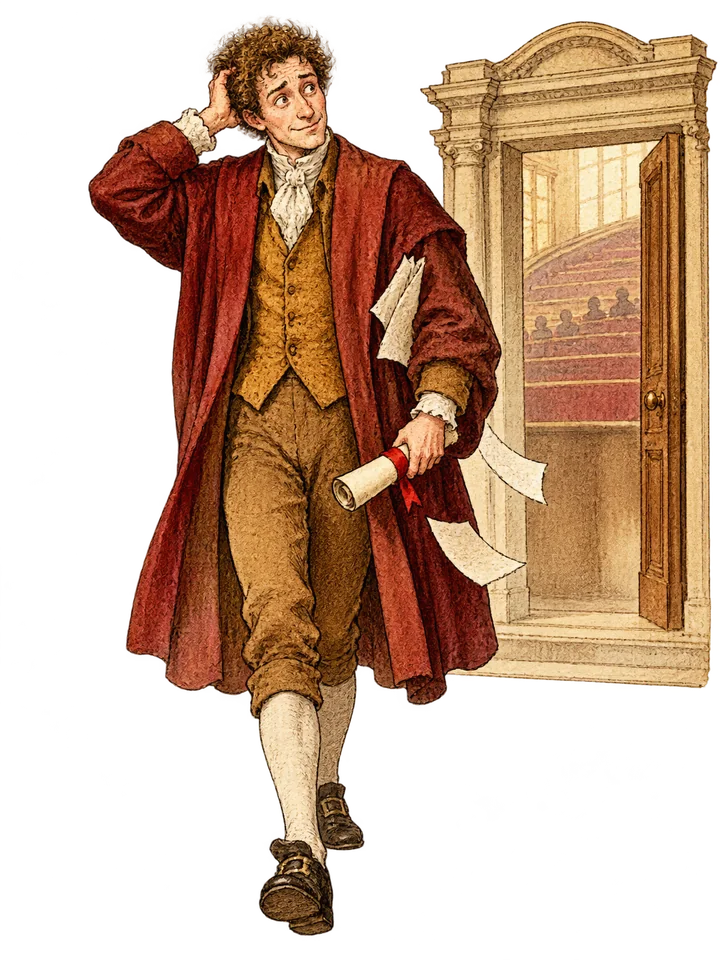
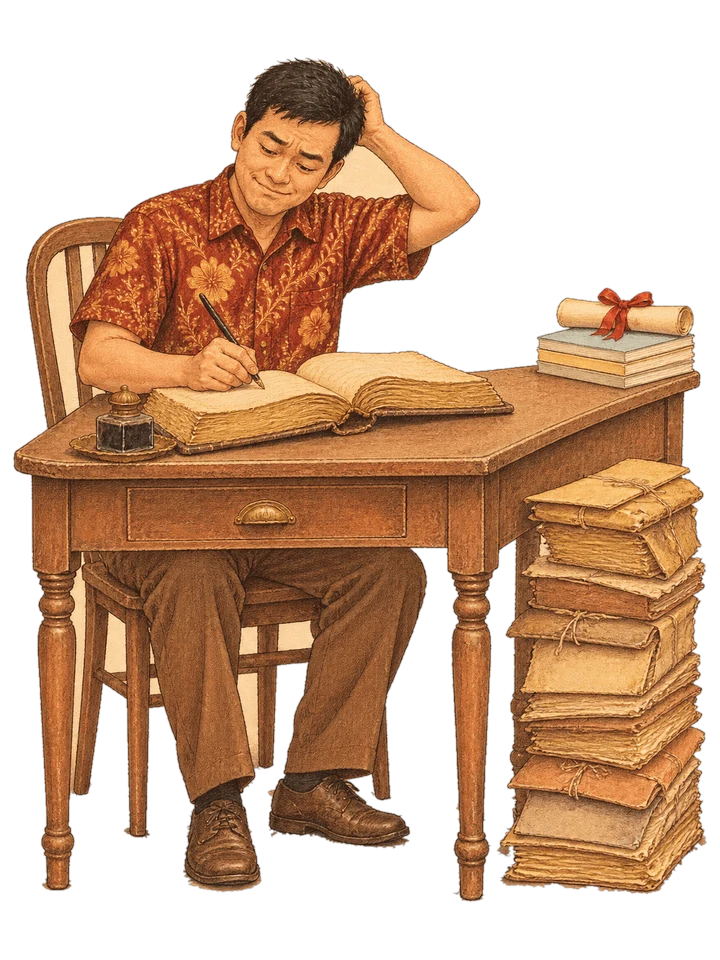
Watercolour game blocks, redrawn course plate, report as PDF, trail on every form
Game blocks are painted washes with serif labels. Booklet page four is
redrawn: back from the course, still writing in the old ledger. The
assessment report opens print-ready in Aqueenix format for Save as PDF.
Every form now carries the pages and sections viewed.

Claude-Session: https://claude.ai/code/session_01RuHVLx4WGbJiag7KhvmNeN

diff --git a/index.html b/index.html
@@ -578,6 +578,7 @@ h2{font-size:clamp(40px,5.6vw,72px);margin:22px 0 24px}
 .game-card[hidden]{display:none}
 .gc-kicker{font-size:11px;letter-spacing:.26em;text-transform:uppercase;font-weight:700;color:#8B1E2D}
 .game-card h3{font-size:clamp(30px,4vw,40px);margin:8px 0 10px;color:#211F1D}
+.game .game-card h3,.t-dark .game-card h3{color:#3A0E0C}.game .game-card.win h3{color:#8B1E2D}
 .game-card p{font-size:15px;color:#6b625b}
 .game-card.win h3{color:#8B1E2D}
 .gc-btns{display:flex;gap:10px;justify-content:center;flex-wrap:wrap;margin-top:18px}
@@ -2657,7 +2658,7 @@ a.wf-tile:focus-visible{outline:2px solid #D9AE50;outline-offset:3px}
       <li><span class="ws-n">3</span><h3>Train</h3><p>We train the people who run the process, on that process, in HRD Corp Claimable sessions. It is set up once, centrally, and taught to the team, so one person leaving does not take the capability with them.</p></li>
     </ol>
     <div class="bk-head reveal"><p class="bk-script">What we keep seeing</p><p class="bk-sub">Five things we find in almost every business we open up, or simply sit down and talk to.</p><span class="bk-flourish" aria-hidden="true"></span></div>
-    <div class="bk-stage" id="bkStage"><div class="book" id="book"><article class="spread" data-i="0" aria-labelledby="bk0"><div class="pg pg-art"><div class="pl"><img src="media/book/connector.webp" alt="Watercolour plate: a hand setting the final keystone into a stone arch" loading="lazy" decoding="async"></div></div><div class="pg pg-txt"><p class="pg-k">The missing piece</p><h3 id="bk0">The connector</h3><p>Your team already has the skills. Designers who can brief an image generator. Marketers who can cut a video. Admin staff who can run a spreadsheet.</p><p>What is missing is the connector: the one who sees the whole picture, finds what is actually broken, and makes the tools, the people and the process hold together.</p><p>There are many trainers. There are few who stay until it is live.</p><span class="folio" aria-hidden="true">i</span></div></article><article class="spread flip" data-i="1" aria-labelledby="bk1"><div class="pg pg-art"><div class="pl"><img src="media/book/lemon.webp" alt="Watercolour plate: a whole lemon beside a curl of peel and a glass of juice" loading="lazy" decoding="async"></div></div><div class="pg pg-txt"><p class="pg-k">The lemon</p><h3 id="bk1">Ask one more question</h3><p>Two people want the same lemon. It gets cut in half, and each walks away with half of what they needed. One more question would have changed it: <em>what do you need it for?</em> One wanted the peel. One wanted the juice. Both could have had everything they came for.</p><p>This is what we do differently. We do not simply build what you asked for. We ask why, and how, and what for, until we reach the thing underneath the request. That is where the value is, and it is the part AI cannot do for you, because AI cannot see what it is not told.</p><span class="folio" aria-hidden="true">ii</span></div></article><article class="spread" data-i="2" aria-labelledby="bk2"><div class="pg pg-art"><div class="pl"><img src="media/book/tools.webp" alt="Watercolour plate: a cabinet of drawers, most never opened, one in daily use" loading="lazy" decoding="async"></div></div><div class="pg pg-txt"><p class="pg-k">What you already own</p><h3 id="bk2">Are you using what you already pay for?</h3><p>Microsoft 365, Google Workspace, Notion, and plenty of others. We have worked across most of the work, productivity and project management platforms a Malaysian business is likely to be paying for. Nearly all of them are more configurable than people realise.</p><p>So the question is not which platform. It is whether you are using the one you already have. Most features sit unopened because nobody knew they were there, and the answer becomes another subscription: another cost, another thing to manage, another login.</p><p>We start inside the system you already live in, fix that, and only then say whether you need anything more.</p><span class="folio" aria-hidden="true">iii</span></div></article><article class="spread flip" data-i="3" aria-labelledby="bk3"><div class="pg pg-art"><div class="pl"><img src="media/book/training.webp" alt="Watercolour plate: a man leaving a lecture hall with a certificate, scratching his head" loading="lazy" decoding="async"></div></div><div class="pg pg-txt"><p class="pg-k">After the course</p><h3 id="bk3">They came back, and nothing changed</h3><p>They return with a certificate and a head full of ideas, and by Monday nothing has moved. AI ends up checking grammar and writing emails that sound like a robot.</p><p>Not because the training was poor. Because nobody connected it to how the work actually runs. A course teaches a tool. It cannot redesign your process for you.</p><span class="folio" aria-hidden="true">iv</span></div></article><article class="spread" data-i="4" aria-labelledby="bk4"><div class="pg pg-art"><div class="pl"><img src="media/book/founders.webp" alt="Watercolour plate: a founder networking outdoors on a rooftop terrace, city behind" loading="lazy" decoding="async"></div></div><div class="pg pg-txt"><p class="pg-k">Who we work with</p><h3 id="bk4">Founders who stay on the business</h3><p>Our clients are not defined by years in the market or headcount. They have a working revenue engine, and they can see what the business becomes once it runs without them in every room.</p><p>You can learn this yourself, and many founders do. But trial and error inside live operations costs real time, real people, real money and your reputation. Experiment on a weekend project, not on the business.</p><span class="folio" aria-hidden="true">v</span></div></article></div><div class="bk-bar"><p class="bk-hint" id="bkHint">Scroll to turn the page</p></div></div>
+    <div class="bk-stage" id="bkStage"><div class="book" id="book"><article class="spread" data-i="0" aria-labelledby="bk0"><div class="pg pg-art"><div class="pl"><img src="media/book/connector.webp" alt="Watercolour plate: a hand setting the final keystone into a stone arch" loading="lazy" decoding="async"></div></div><div class="pg pg-txt"><p class="pg-k">The missing piece</p><h3 id="bk0">The connector</h3><p>Your team already has the skills. Designers who can brief an image generator. Marketers who can cut a video. Admin staff who can run a spreadsheet.</p><p>What is missing is the connector: the one who sees the whole picture, finds what is actually broken, and makes the tools, the people and the process hold together.</p><p>There are many trainers. There are few who stay until it is live.</p><span class="folio" aria-hidden="true">i</span></div></article><article class="spread flip" data-i="1" aria-labelledby="bk1"><div class="pg pg-art"><div class="pl"><img src="media/book/lemon.webp" alt="Watercolour plate: a whole lemon beside a curl of peel and a glass of juice" loading="lazy" decoding="async"></div></div><div class="pg pg-txt"><p class="pg-k">The lemon</p><h3 id="bk1">Ask one more question</h3><p>Two people want the same lemon. It gets cut in half, and each walks away with half of what they needed. One more question would have changed it: <em>what do you need it for?</em> One wanted the peel. One wanted the juice. Both could have had everything they came for.</p><p>This is what we do differently. We do not simply build what you asked for. We ask why, and how, and what for, until we reach the thing underneath the request. That is where the value is, and it is the part AI cannot do for you, because AI cannot see what it is not told.</p><span class="folio" aria-hidden="true">ii</span></div></article><article class="spread" data-i="2" aria-labelledby="bk2"><div class="pg pg-art"><div class="pl"><img src="media/book/tools.webp" alt="Watercolour plate: a cabinet of drawers, most never opened, one in daily use" loading="lazy" decoding="async"></div></div><div class="pg pg-txt"><p class="pg-k">What you already own</p><h3 id="bk2">Are you using what you already pay for?</h3><p>Microsoft 365, Google Workspace, Notion, and plenty of others. We have worked across most of the work, productivity and project management platforms a Malaysian business is likely to be paying for. Nearly all of them are more configurable than people realise.</p><p>So the question is not which platform. It is whether you are using the one you already have. Most features sit unopened because nobody knew they were there, and the answer becomes another subscription: another cost, another thing to manage, another login.</p><p>We start inside the system you already live in, fix that, and only then say whether you need anything more.</p><span class="folio" aria-hidden="true">iii</span></div></article><article class="spread flip" data-i="3" aria-labelledby="bk3"><div class="pg pg-art"><div class="pl"><img src="media/book/training.webp" alt="Watercolour plate: a man back at his old desk, scratching his head and writing in the same ledger, his new certificate and course books pushed to the corner" loading="lazy" decoding="async"></div></div><div class="pg pg-txt"><p class="pg-k">After the course</p><h3 id="bk3">They came back, and nothing changed</h3><p>They return with a certificate and a head full of ideas, and by Monday nothing has moved. AI ends up checking grammar and writing emails that sound like a robot.</p><p>Not because the training was poor. Because nobody connected it to how the work actually runs. A course teaches a tool. It cannot redesign your process for you.</p><span class="folio" aria-hidden="true">iv</span></div></article><article class="spread" data-i="4" aria-labelledby="bk4"><div class="pg pg-art"><div class="pl"><img src="media/book/founders.webp" alt="Watercolour plate: a founder networking outdoors on a rooftop terrace, city behind" loading="lazy" decoding="async"></div></div><div class="pg pg-txt"><p class="pg-k">Who we work with</p><h3 id="bk4">Founders who stay on the business</h3><p>Our clients are not defined by years in the market or headcount. They have a working revenue engine, and they can see what the business becomes once it runs without them in every room.</p><p>You can learn this yourself, and many founders do. But trial and error inside live operations costs real time, real people, real money and your reputation. Experiment on a weekend project, not on the business.</p><span class="folio" aria-hidden="true">v</span></div></article></div><div class="bk-bar"><p class="bk-hint" id="bkHint">Scroll to turn the page</p></div></div>
     <div class="val reveal" id="value"><div class="val-art"><img src="media/balance.webp" alt="Watercolour of brass scales in balance, a machine on one pan and an open human hand on the other" loading="lazy" decoding="async"></div><div class="val-txt"><p class="val-k"><span aria-hidden="true"></span>What we stand for</p><p class="val-1">The tool is AI. <em>The work is human.</em></p><p class="val-2">We plug AI in to empower the people already doing the job. Never to replace them.</p><ul class="val-list"><li>We do not trade in the line that AI is coming for your job. The world is fast enough and stressful enough already. It needs more empathy, not more fear.</li><li>With AI you scale and grow. Staying the same size and cutting people is not doing better, it is just doing less.</li><li>The work is still experience, judgement and grit. We put the right people on the right work, then find what they are missing and fill it.</li></ul></div></div>
     <aside class="call-band reveal" aria-label="Book the strategy call"><div class="cb-in"><p class="cb-t"><b>Want us to look at how your business runs?</b><span>Thirty minutes. We send you a report with three actions you can start on yourself.</span></p><a class="btn btn-wine" href="#contact" data-topic="Book a 30-minute strategy call">Book a free 30-minute strategy call <span class="arr" aria-hidden="true">&rarr;</span></a></div></aside>
   </div>
@@ -3682,7 +3683,7 @@ window.AQ_QUIZ={"blocks":[{"id":"customer_history","layer":1,"name":"Customer Hi
       '<div class="rp-sec"><h4>Your 90-day path</h4><ol class="rp-path">'+path+'</ol></div>'+
       '<div class="rp-sec rp-bench"><h4>How others are doing</h4><ul><li><b>38%</b> of Malaysian businesses use AI consistently, but <b>67%</b> of them are still on basic tools. <small>AWS, 2026</small></li><li><b>16%</b> of Malaysian organisations are fully ready for AI, and <b>38%</b> have a change plan. <small>Cisco AI Readiness Index, 2025</small></li><li><b>88%</b> of organisations worldwide use AI somewhere, but only about <b>6%</b> see real profit from it. <small>McKinsey, 2025</small></li></ul><p class="rp-note">Once enough businesses like yours have taken the assessment, this will compare you with your own industry and size.</p></div>'+
       '<div class="rp-sec rp-ways"><h4>Three ways forward</h4><div><b>Do it yourself</b><p>Use this report and the quick wins with your own team.</p></div><div><b>Train your key person</b><p>We train the person accountable for each gap. HRD Corp Claimable where eligible.</p></div><div><b>Done with you</b><p>We design, build and run it with you, as one accountable partner.</p></div></div>'+
-      '<div class="rp-cta"><a class="btn btn-wine" href="#contact" id="resBook">Book a free 30-minute strategy call <span class="arr" aria-hidden="true">&rarr;</span></a><button type="button" class="btn btn-ghost-wine" id="resDl">Download my report</button></div>'+
+      '<div class="rp-cta"><a class="btn btn-wine" href="#contact" id="resBook">Book a free 30-minute strategy call <span class="arr" aria-hidden="true">&rarr;</span></a><button type="button" class="btn btn-ghost-wine" id="resDl">Save my report as PDF</button></div>'+
       '<p class="rp-saved" id="rpSaved" aria-live="polite"></p>'+
       '<p class="rp-method">Self-reported and indicative, based on your '+answersList().length+' answers. Not an audit. Each area is scored 0 to 100 from your answers, weighted toward people and process, and your level can be at most one above your weakest area. See our <a href="privacy/" target="_blank" rel="noopener" target="_blank" rel="noopener">Privacy Notice</a>.</p>'+
       '</div>';
@@ -3698,7 +3699,16 @@ window.AQ_QUIZ={"blocks":[{"id":"customer_history","layer":1,"name":"Customer Hi
       setTimeout(function(){window.AQ.scrollTo('#contact')},60);
     });
     document.getElementById('resDl').addEventListener('click',function(){
-      var html='<!doctype html><html lang="en"><head><meta charset="utf-8"><meta name="viewport" content="width=device-width,initial-scale=1"><title>Business Blocks report: '+esc(S.lead?S.lead.company:'')+'</title><style>'+REPORT_CSS+'</style></head><body><header class="dl-h"><b>Aqueenix</b> &middot; Business Blocks report</header>'+body.querySelector('.rp').outerHTML.replace(/<div class="rp-cta">[\s\S]*?<\/div>/,'<p class="rp-cta">Book your free 30-minute strategy call: contact@aqueenix.com</p>')+'</body></html>';
+      var co=esc(S.lead&&S.lead.company?S.lead.company:'your business'),who=esc(S.lead?S.lead.name:''),day=new Date().toLocaleDateString('en-GB',{day:'numeric',month:'long',year:'numeric'});
+      var PRINT_CSS='@page{size:A4;margin:14mm 14mm 16mm}.pdf-h{display:flex;justify-content:space-between;align-items:flex-end;gap:16px;border-bottom:2px solid #C8941E;padding:0 0 12px;margin:0 0 18px}.pdf-h b{font-family:"Cormorant Garamond",Georgia,serif;font-size:30px;font-weight:600;color:#8B1E2D;letter-spacing:.04em}.pdf-h span{display:block;font-size:11px;letter-spacing:.2em;text-transform:uppercase;color:#9A7016;font-weight:700}.pdf-h p{margin:0;text-align:right;font-size:12.5px;color:#6b625b;line-height:1.5}.pdf-f{margin-top:26px;padding-top:12px;border-top:1px solid rgba(110,18,15,.2);font-size:11.5px;color:#6b625b;display:flex;justify-content:space-between;gap:12px;flex-wrap:wrap}.pdf-bar{position:sticky;top:0;z-index:5;margin:-24px -24px 18px;padding:12px 24px;background:#4A0C0A;color:#F5EFE6;font-size:14px;display:flex;gap:14px;align-items:center;justify-content:space-between;flex-wrap:wrap}.pdf-bar button{font:inherit;font-weight:700;border:0;border-radius:999px;padding:9px 18px;background:#F0CF7A;color:#4A0C0A;cursor:pointer}@media print{body{background:#fff;padding:0;max-width:none}.pdf-bar{display:none}.rp-card,.rp-gap,.rp-dim{break-inside:avoid}}';
+      var html='<!doctype html><html lang="en"><head><meta charset="utf-8"><meta name="viewport" content="width=device-width,initial-scale=1"><title>Aqueenix Business Blocks report, '+co+'</title><link rel="stylesheet" href="https://fonts.googleapis.com/css2?family=Cormorant+Garamond:wght@500;600&family=Manrope:wght@400;500;600;700&display=swap"><style>'+REPORT_CSS+PRINT_CSS+'</style></head><body>'+
+        '<div class="pdf-bar"><span>To keep this as a PDF, choose <b>Save as PDF</b> in the print window.</span><button type="button" onclick="window.print()">Save as PDF</button></div>'+
+        '<header class="pdf-h"><div><b>Aqueenix</b><span>Business Blocks report</span></div><p>Prepared for '+(who?who+', ':'')+co+'<br>'+day+'</p></header>'+
+        body.querySelector('.rp').outerHTML.replace(/<div class="rp-cta">[\s\S]*?<\/div>/,'<p class="rp-cta">Book your free 30-minute strategy call: contact@aqueenix.com, or WhatsApp +60 16-529 0236.</p>')+
+        '<footer class="pdf-f"><span>Aqueenix Sdn Bhd (202501031554)</span><span>contact@aqueenix.com</span><span>A template plan on our own framework. The plan built for your business comes from the strategy call.</span></footer>'+
+        '<script>window.addEventListener("load",function(){setTimeout(function(){try{window.print()}catch(e){}},600)})<\/script></body></html>';
+      var w=null;try{w=window.open('','_blank')}catch(e){}
+      if(w&&w.document){try{w.document.open();w.document.write(html);w.document.close();return}catch(e){}}
       AQ_LEADS.download('Aqueenix Business Blocks report.html',html,'text/html');
     });
     var num=document.getElementById('resNum');
@@ -3739,7 +3749,7 @@ window.AQ_QUIZ={"blocks":[{"id":"customer_history","layer":1,"name":"Customer Hi
         AQ_LEADS.save(lead).then(function(res){
           next.disabled=false;step++;render();
           var sv=document.getElementById('rpSaved');
-          if(sv)sv.textContent='Thank you. We have your report, and our team will be in touch. Download it now to keep your own copy.';
+          if(sv)sv.textContent='Thank you. We have your report, and our team will be in touch. Save it as a PDF now to keep your own copy.';
         });
         return;
       }
@@ -3847,8 +3857,8 @@ window.AQ_QUIZ={"blocks":[{"id":"customer_history","layer":1,"name":"Customer Hi
 /* Business Blocks stacking game and the "scale a mess" demo. Canvas 2D, no libraries. */
 (function(){
   var REDUCE=window.matchMedia('(prefers-reduced-motion: reduce)').matches;
-  var COLS=[['#B5523B','#CF7A63','#8A3A28','#fff'],['#8B1E2D','#B44A58','#6E120F','#fff'],['#5F6B3A','#7E8A55','#434C27','#fff'],['#3A3532','#5A534E','#211F1D','#fff'],['#8A9A6B','#A9B78C','#6A7850','#fff'],['#7A2E3B','#9C4A57','#561F29','#fff']];
-  var AICOL=['#C8941E','#D9AE50','#9A7016','#2a1f05'];
+  var COLS=[['#B8644C','#DCA08A','#84402E','#FFF8EE'],['#8E2A38','#C06E79','#5E1420','#FFF8EE'],['#6B7645','#A3AD7E','#454E2A','#FFF8EE'],['#6A5548','#A08A7B','#412F24','#FFF8EE'],['#93A37E','#C3CEAF','#63724E','#2B2A1E'],['#7D3B4A','#B37480','#55202C','#FFF8EE']];
+  var AICOL=['#CF9E34','#EBCB83','#96701A','#2a1f05'];
   var LABELS=['Reputation','People','SOPs','Records','Systems','Data'];
   var MESS=['Old SOP (2019)','WhatsApp groups','Excel_FINAL_v7','Sticky notes','3 CRMs','Paper claims','Email chains','Shared drive?','Who approves?'];
   var FW=['#B5523B','#C8941E','#5F6B3A','#3A3532','#8A9A6B','#7A2E3B','#D9AE50','#ffd36b'];
@@ -3856,26 +3866,42 @@ window.AQ_QUIZ={"blocks":[{"id":"customer_history","layer":1,"name":"Customer Hi
   function rnd(a,b){return a+Math.random()*(b-a)}
   function font(px,w){return (w||700)+' '+px+'px Manrope, system-ui, sans-serif'}
 
+  /* Blocks painted as watercolour: a soft uneven edge, a wash that pools darker at the rim, a serif label in ink */
+  function wobble(b){
+    if(b._wb&&b._wbw===b.w&&b._wbh===b.h)return b._wb;
+    var pts=[],w=b.w,h=b.h,st=13,s=b._sd||(b._sd=1+Math.random()*9999),x,y,k=Math.min(2.6,h*.08);
+    function r(){s=(s*9301+49297)%233280;return s/233280-.5}
+    for(x=-w/2+4;x<w/2-2;x+=st)pts.push([x,-h/2+r()*k]);
+    for(y=-h/2+4;y<h/2-2;y+=st)pts.push([w/2+r()*k,y]);
+    for(x=w/2-4;x>-w/2+2;x-=st)pts.push([x,h/2+r()*k]);
+    for(y=h/2-4;y>-h/2+2;y-=st)pts.push([-w/2+r()*k,y]);
+    b._wb=pts;b._wbw=w;b._wbh=h;return pts;
+  }
+  function wpath(ctx,pts){
+    var n=pts.length,i,p,q;ctx.beginPath();ctx.moveTo((pts[n-1][0]+pts[0][0])/2,(pts[n-1][1]+pts[0][1])/2);
+    for(i=0;i<n;i++){p=pts[i];q=pts[(i+1)%n];ctx.quadraticCurveTo(p[0],p[1],(p[0]+q[0])/2,(p[1]+q[1])/2)}
+    ctx.closePath();
+  }
   function drawBrick(ctx,b){
-    var w=b.w,h=b.h,d=Math.max(6,h*.24),c=b.c;
+    var w=b.w,h=b.h,c=b.c,pts=wobble(b),g;
     ctx.save();
     ctx.translate(b.x,b.y+h/2);ctx.rotate(b.r||0);
+    /* paper under the paint, with a soft cast shadow */
     if(b.glow){ctx.shadowColor='rgba(240,200,110,.95)';ctx.shadowBlur=b.glow}
-    var n=Math.max(2,Math.round(w/46)),sr=Math.min(10,w/n*.24);
-    for(var i=0;i<n;i++){
-      var cx=-w/2+(i+.5)*w/n+d/2,cy=-h/2-d/2;
-      ctx.fillStyle=c[2];ctx.beginPath();ctx.ellipse(cx,cy+1,sr,sr*.38,0,0,Math.PI*2);ctx.fill();
-      ctx.fillStyle=c[0];ctx.fillRect(cx-sr,cy-6,2*sr,7);
-      ctx.fillStyle=c[1];ctx.beginPath();ctx.ellipse(cx,cy-6,sr,sr*.38,0,0,Math.PI*2);ctx.fill();
-    }
-    ctx.shadowBlur=0;
-    ctx.fillStyle=c[1];ctx.beginPath();ctx.moveTo(-w/2,-h/2);ctx.lineTo(-w/2+d,-h/2-d);ctx.lineTo(w/2+d,-h/2-d);ctx.lineTo(w/2,-h/2);ctx.closePath();ctx.fill();
-    ctx.fillStyle=c[2];ctx.beginPath();ctx.moveTo(w/2,-h/2);ctx.lineTo(w/2+d,-h/2-d);ctx.lineTo(w/2+d,h/2-d);ctx.lineTo(w/2,h/2);ctx.closePath();ctx.fill();
-    if(b.glow){ctx.shadowColor='rgba(240,200,110,.95)';ctx.shadowBlur=b.glow}
-    ctx.fillStyle=c[0];ctx.beginPath();if(ctx.roundRect)ctx.roundRect(-w/2,-h/2,w,h,4);else ctx.rect(-w/2,-h/2,w,h);ctx.fill();
-    ctx.shadowBlur=0;
-    ctx.fillStyle='rgba(255,255,255,.18)';ctx.fillRect(-w/2+6,-h/2+5,w-12,3);
-    if(b.label){ctx.fillStyle=c[3];var fs=Math.max(11,Math.min(15,h*.36));ctx.font=font(fs);var tw=ctx.measureText(b.label).width;if(tw>w-12){fs=Math.max(8,fs*(w-12)/tw);ctx.font=font(fs)}ctx.textAlign='center';ctx.textBaseline='middle';ctx.fillText(b.label,0,1)}
+    else{ctx.shadowColor='rgba(16,7,5,.42)';ctx.shadowBlur=9;ctx.shadowOffsetY=3}
+    wpath(ctx,pts);ctx.fillStyle='#F4E9DA';ctx.fill();
+    ctx.shadowColor='transparent';ctx.shadowBlur=0;ctx.shadowOffsetY=0;
+    /* the wash */
+    g=ctx.createLinearGradient(-w/2,-h/2,w/2,h/2);g.addColorStop(0,c[1]);g.addColorStop(.55,c[0]);g.addColorStop(1,c[0]);
+    ctx.globalAlpha=.9;wpath(ctx,pts);ctx.fillStyle=g;ctx.fill();
+    /* water lifts the pigment in the middle */
+    g=ctx.createRadialGradient(-w*.12,-h*.1,2,0,0,Math.max(w,h)*.62);g.addColorStop(0,'rgba(255,247,232,.34)');g.addColorStop(.6,'rgba(255,247,232,.08)');g.addColorStop(1,'rgba(255,247,232,0)');
+    ctx.globalAlpha=1;wpath(ctx,pts);ctx.fillStyle=g;ctx.fill();
+    /* and it dries darker at the rim */
+    ctx.globalAlpha=.55;ctx.lineWidth=1.5;ctx.strokeStyle=c[2];ctx.lineJoin='round';wpath(ctx,pts);ctx.stroke();
+    ctx.globalAlpha=.16;ctx.lineWidth=3.2;wpath(ctx,pts);ctx.stroke();
+    ctx.globalAlpha=1;
+    if(b.label){ctx.fillStyle=c[3];var fs=Math.max(13,Math.min(19,h*.46));var ff=function(s){return '600 '+s+'px "Cormorant Garamond", Georgia, serif'};ctx.font=ff(fs);var tw=ctx.measureText(b.label).width;if(tw>w-14){fs=Math.max(9,fs*(w-14)/tw);ctx.font=ff(fs)}ctx.textAlign='center';ctx.textBaseline='middle';ctx.fillText(b.label,0,1)}
     ctx.restore();
   }
 
